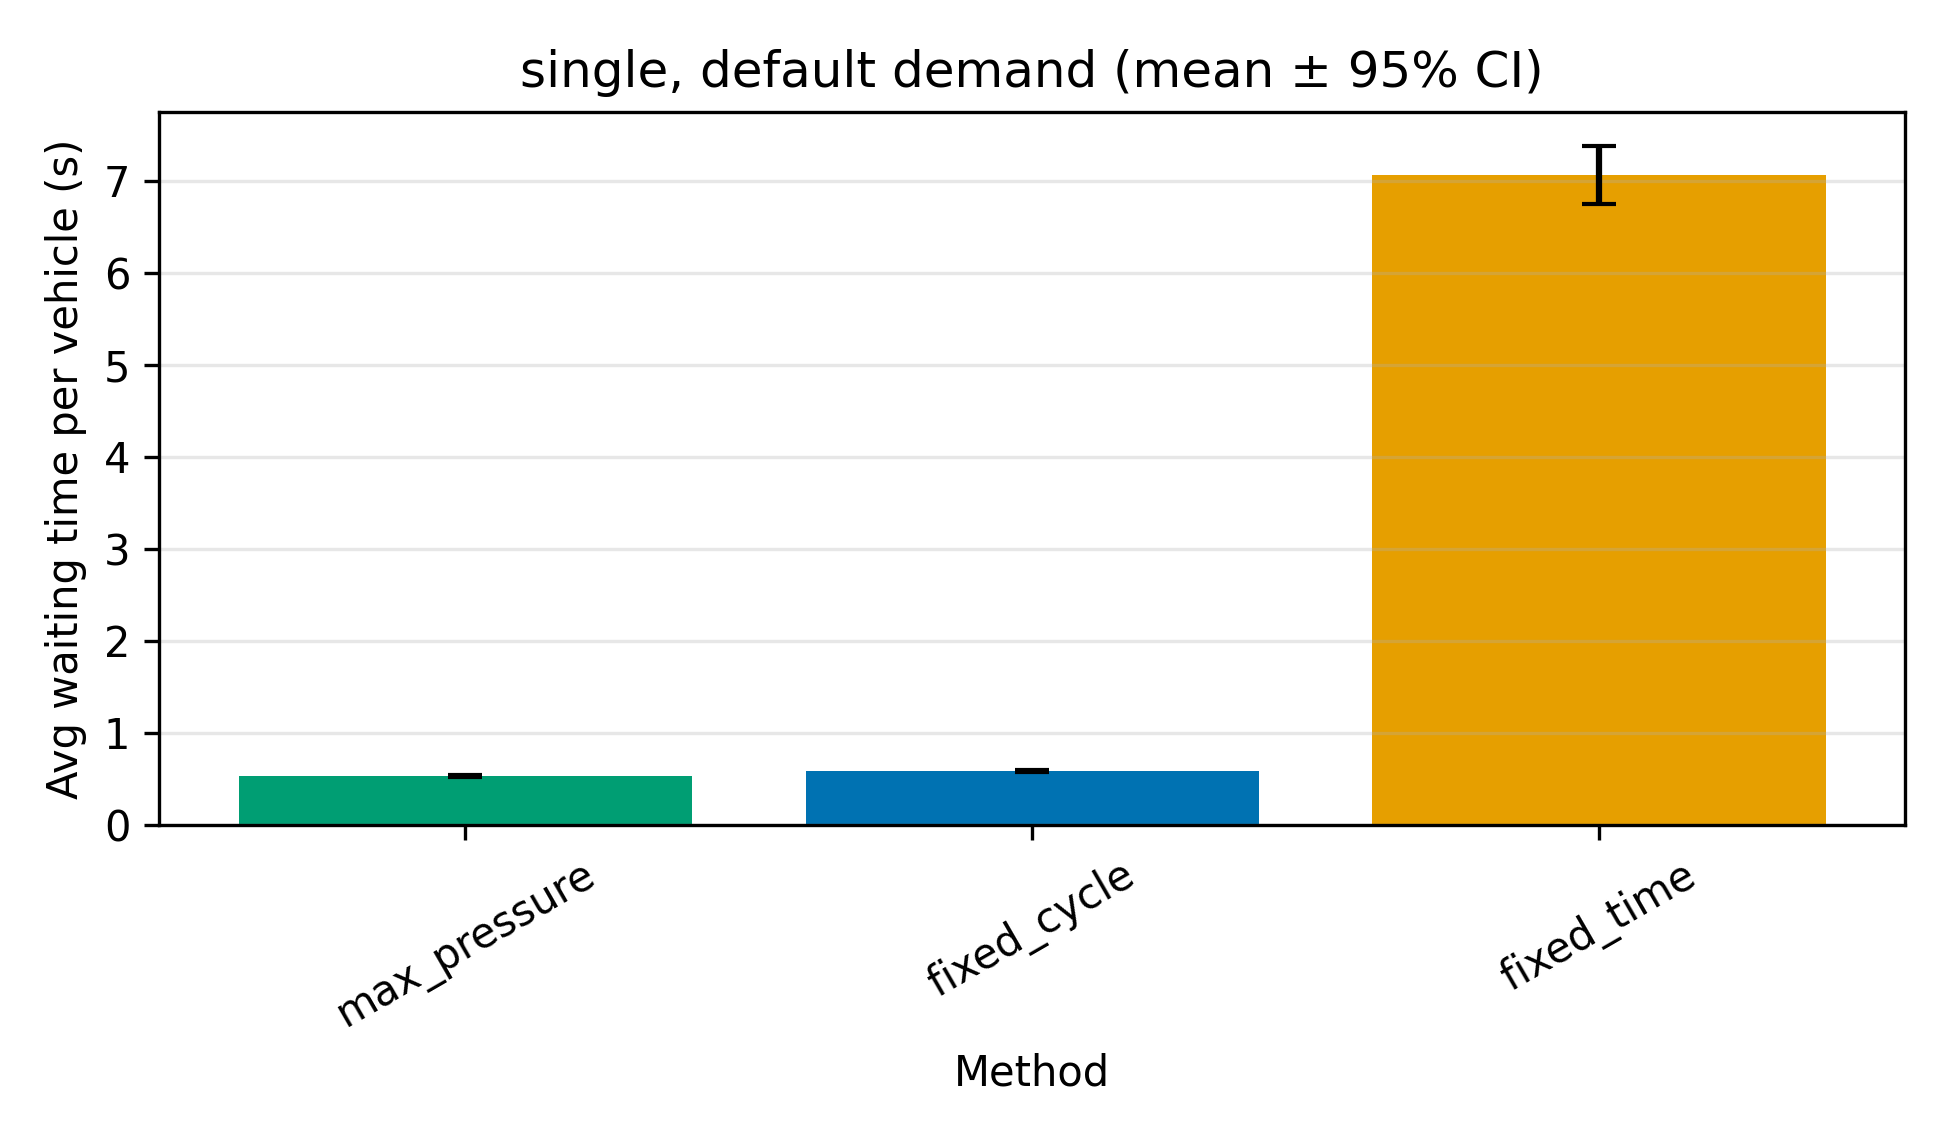
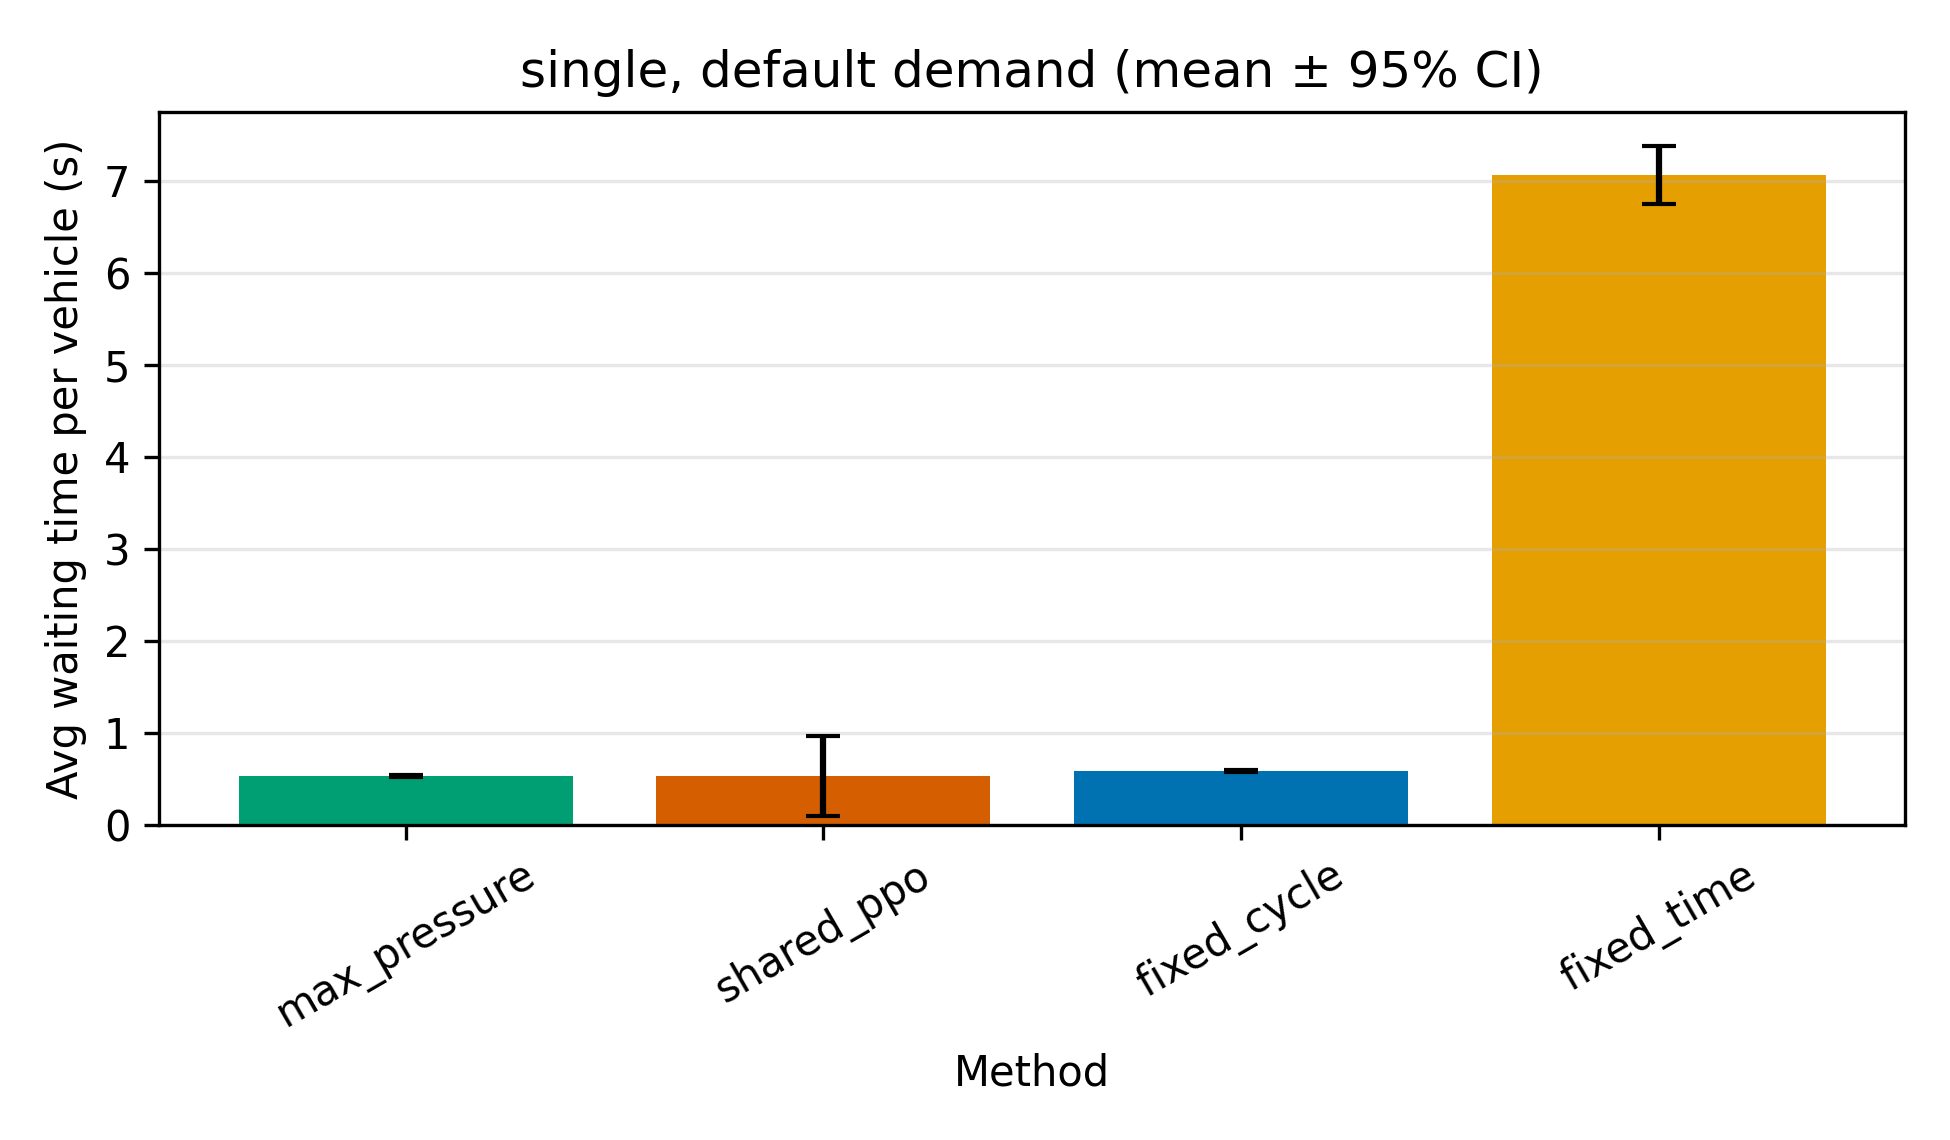
ql, dqn and shared ppo results on single

diff --git a/results/tables/main_single.tex b/results/tables/main_single.tex
@@ -8,8 +8,9 @@
 Method & Wait (s) & Queue (veh) & Trip (s) & Throughput (veh) \\
 \midrule
 fixed\_cycle & 0.58 $\pm$ 0.01 & 7.07 $\pm$ 0.12 & 71.42 $\pm$ 1.01 & 1954.60 $\pm$ 48.51 \\
-fixed\_time & 7.06 $\pm$ 0.32 & 16.28 $\pm$ 1.25 & \textbf{56.72 $\pm$ 1.93} & \textbf{2405.20 $\pm$ 51.66} \\
-max\_pressure & \textbf{0.53 $\pm$ 0.01} & \textbf{6.36 $\pm$ 0.15} & 65.25 $\pm$ 0.92 & 2127.80 $\pm$ 61.72 \\
+fixed\_time & 7.06 $\pm$ 0.32 & 16.28 $\pm$ 1.25 & 56.72 $\pm$ 1.93 & 2405.20 $\pm$ 51.66 \\
+max\_pressure & \textbf{0.53 $\pm$ 0.01} & 6.36 $\pm$ 0.15 & 65.25 $\pm$ 0.92 & 2127.80 $\pm$ 61.72 \\
+shared\_ppo & 0.53 $\pm$ 0.43 & \textbf{2.33 $\pm$ 0.26} & \textbf{32.55 $\pm$ 0.71} & \textbf{2496.40 $\pm$ 0.50} \\
 \bottomrule
 \end{tabular}}
 \end{table}
